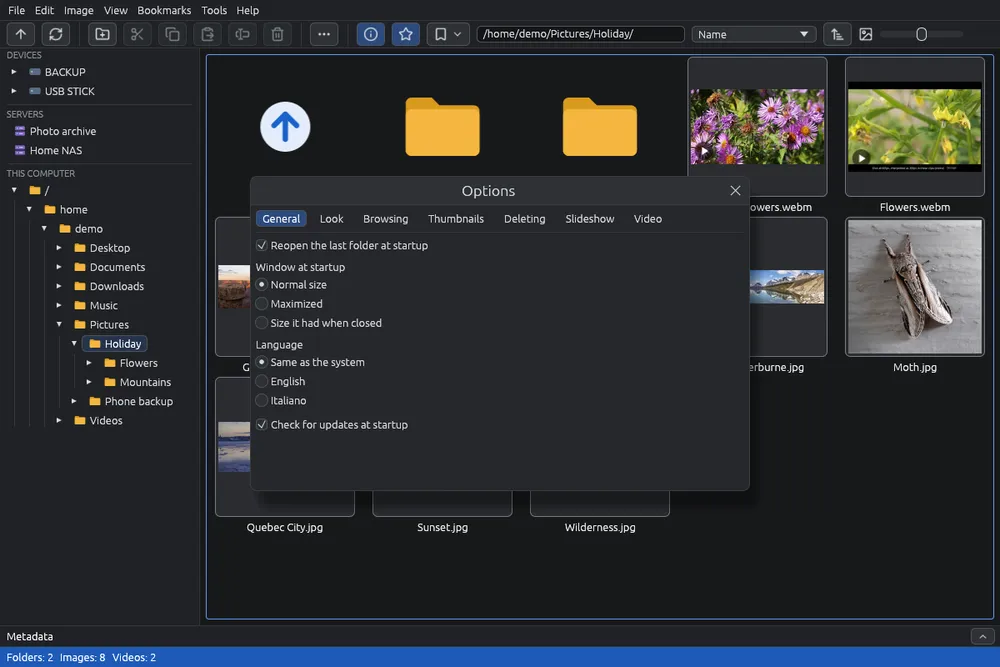
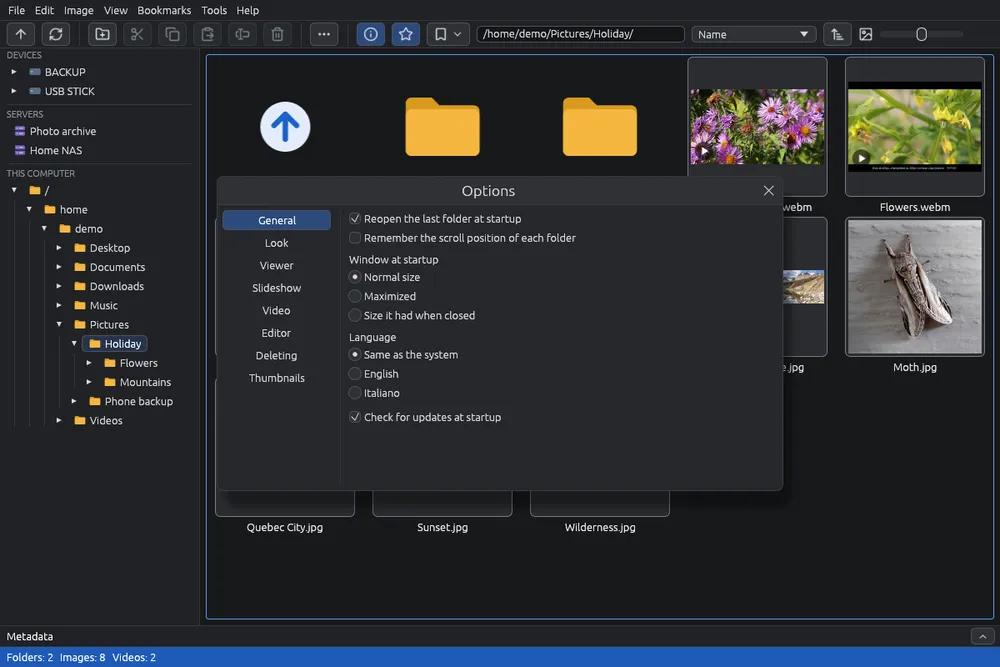
Options: tabs in a column, ordered as a visit; Browsing becomes Viewer
Nine tabs did not fit in a row in every language. Now they stand in a
column on the left, General first and the thumbnail cache (upkeep) last,
the others in the order of a visit: Look, Viewer, Slideshow, Video,
Editor, Resize, Deleting (Microsoft's guidelines for options windows:
General first, related pages grouped and ordered by use, vertical tabs
from eight). "Browsing" held mostly viewer settings and is now "Viewer";
"Remember the scroll position of each folder", about the grid, moves to
General. The window is 720 wide, for the rows of Resize beside the
column. Guide: Options, en and it, with its picture taken again.

diff --git a/src/app_dialogs.rs b/src/app_dialogs.rs
@@ -13,17 +13,18 @@ impl App {
         let mut open = self.options;
         let before = self.settings.clone();
         let t = |id| self.i18n.t(id);
+        // General first, upkeep (the thumbnail cache) last; between them the order of a visit:
+        // look, watch, edit, delete (Microsoft's guidelines for options windows).
         let tab_names = [
             (OptTab::General, t("opt-tab-general")),
             (OptTab::Look, t("opt-tab-look")),
-            (OptTab::Browsing, t("opt-tab-browsing")),
-            // Next to Browsing: both are about the grid.
-            (OptTab::Thumbnails, t("opt-tab-thumbnails")),
-            (OptTab::Deleting, t("opt-tab-deleting")),
+            (OptTab::Viewer, t("opt-tab-viewer")),
             (OptTab::Slideshow, t("opt-tab-slideshow")),
             (OptTab::Video, t("opt-tab-video")),
             (OptTab::Editor, t("opt-tab-editor")),
             (OptTab::Resize, t("opt-tab-resize")),
+            (OptTab::Deleting, t("opt-tab-deleting")),
+            (OptTab::Thumbnails, t("opt-tab-thumbnails")),
         ];
         let mut purged = false;
         let (i18n, languages) = (&self.i18n, &self.languages);
@@ -31,37 +32,41 @@ impl App {
         let confirm = &mut self.purge_confirm;
         let s = &mut self.settings;
         // Fixed id: changing language changes the title, and the window must not move.
-        // One tab per subject, as in other programs: the window stays short. Fixed size and in the
-        // middle, so changing tab does not make it jump.
+        // One tab per subject, in a column on the left (eight or more tabs do not fit in a row in
+        // every language). Fixed size and in the middle, so changing tab does not make it jump.
         egui::Window::new(i18n.t("options-title"))
             .id(egui::Id::unique("options"))
             .open(&mut open)
             .collapsible(false)
             .resizable(false)
-            // Wide enough for the nine tabs in every language (Italian is the longest: 600 let
-            // Editor push the body past the title bar, 2026-11-11; 640 for eight).
-            .fixed_size([740.0, 330.0])
+            // Wide enough for the rows of Resize (name, kind, two sizes) beside the column of tabs.
+            .fixed_size([720.0, 330.0])
             .anchor(egui::Align2::CENTER_CENTER, [0.0, 0.0])
             .show(ctx, |ui| {
                 // As tall as the longest tab (General), so changing tab does not resize the window.
                 ui.set_min_height(330.0);
-                ui.horizontal(|ui| {
-                    for (value, name) in tab_names {
-                        ui.selectable_value(tab, value, name);
-                    }
+                ui.horizontal_top(|ui| {
+                    ui.vertical(|ui| {
+                        ui.set_width(130.0);
+                        for (value, name) in tab_names {
+                            if ui.add_sized([130.0, 24.0], egui::Button::selectable(*tab == value, name)).clicked() {
+                                *tab = value;
+                            }
+                        }
+                    });
+                    ui.separator();
+                    ui.vertical(|ui| match tab {
+                        OptTab::Slideshow => crate::slideshow::options_ui(ui, s, i18n),
+                        OptTab::Video => crate::engine::options_ui(ui, s, i18n),
+                        OptTab::General => general_tab(ui, s, i18n, languages),
+                        OptTab::Look => look_tab(ui, s, i18n),
+                        OptTab::Viewer => viewer_tab(ui, s, i18n),
+                        OptTab::Deleting => deleting_tab(ui, s, i18n),
+                        OptTab::Thumbnails => purged = thumbnails_tab(ui, s, i18n, confirm),
+                        OptTab::Editor => editor_tab(ui, s, i18n),
+                        OptTab::Resize => crate::presets::options_ui(ui, s, i18n),
+                    });
                 });
-                ui.separator();
-                match tab {
-                    OptTab::Slideshow => crate::slideshow::options_ui(ui, s, i18n),
-                    OptTab::Video => crate::engine::options_ui(ui, s, i18n),
-                    OptTab::General => general_tab(ui, s, i18n, languages),
-                    OptTab::Look => look_tab(ui, s, i18n),
-                    OptTab::Browsing => browsing_tab(ui, s, i18n),
-                    OptTab::Deleting => deleting_tab(ui, s, i18n),
-                    OptTab::Thumbnails => purged = thumbnails_tab(ui, s, i18n, confirm),
-                    OptTab::Editor => editor_tab(ui, s, i18n),
-                    OptTab::Resize => crate::presets::options_ui(ui, s, i18n),
-                }
             });
         if !open {
             self.purge_confirm = None;
@@ -220,6 +225,7 @@ impl App {
 fn general_tab(ui: &mut egui::Ui, s: &mut Settings, i18n: &I18n, languages: &[(&'static str, String)]) {
     let t = |id| i18n.t(id);
     ui.checkbox(&mut s.remember_location, t("opt-remember-location")).on_hover_text(t("opt-remember-location-hint"));
+    ui.checkbox(&mut s.remember_scroll, t("opt-remember-scroll")).on_hover_text(t("opt-remember-scroll-hint"));
     ui.add_space(6.0);
     ui.label(t("opt-window"));
     ui.radio_value(&mut s.window_start, WindowStart::Normal, t("opt-window-normal"));
@@ -247,9 +253,8 @@ fn look_tab(ui: &mut egui::Ui, s: &mut Settings, i18n: &I18n) {
     ui.radio_value(&mut s.theme, ThemeChoice::Dark, t("opt-theme-dark"));
 }
 
-fn browsing_tab(ui: &mut egui::Ui, s: &mut Settings, i18n: &I18n) {
+fn viewer_tab(ui: &mut egui::Ui, s: &mut Settings, i18n: &I18n) {
     let t = |id| i18n.t(id);
-    ui.checkbox(&mut s.remember_scroll, t("opt-remember-scroll")).on_hover_text(t("opt-remember-scroll-hint"));
     ui.checkbox(&mut s.wrap_around, t("opt-wrap-around")).on_hover_text(t("opt-wrap-around-hint"));
     ui.checkbox(&mut s.close_to_grid, t("opt-close-to-grid")).on_hover_text(t("opt-close-to-grid-hint"));
     ui.add_space(6.0);

diff --git a/src/main.rs b/src/main.rs
@@ -197,13 +197,13 @@ enum OptTab {
     #[default]
     General,
     Look,
-    Browsing,
-    Thumbnails,
-    Deleting,
+    Viewer,
     Slideshow,
     Video,
     Editor,
     Resize,
+    Deleting,
+    Thumbnails,
 }
 
 /// Images kept in memory around the one open in the viewer, on each side.

diff --git a/docs/help/it/options.md b/docs/help/it/options.md
@@ -4,7 +4,7 @@ Le opzioni cambiano come EyeCanSee si avvia, il suo aspetto, come passa da un'im
 
 ## Aprire le opzioni
 
-Scegli **Strumenti > Opzioni…** (![Opzioni…](icon://settings)). La finestra è divisa in schede: **Generale**, **Aspetto**, **Navigazione**, **Miniature**, **Eliminazione**, **Carosello**, **Video**, **Editor** e **Ridimensiona**. Passando sopra molte opzioni compare una breve spiegazione.
+Scegli **Strumenti > Opzioni…** (![Opzioni…](icon://settings)). La finestra è divisa in schede: **Generale**, **Aspetto**, **Visore**, **Carosello**, **Video**, **Editor**, **Ridimensiona**, **Eliminazione** e **Miniature**, in colonna a sinistra. Passando sopra molte opzioni compare una breve spiegazione.
 
 Ogni modifica viene salvata subito in `settings.json`: in `~/.config/eyecansee` su Linux e in `%APPDATA%\eyecansee` su Windows. È un file di testo che puoi anche modificare a mano.
 
@@ -13,6 +13,7 @@ Ogni modifica viene salvata subito in `settings.json`: in `~/.config/eyecansee` 
 ## Generale
 
 - **Riapri l'ultima cartella all'avvio** (accesa): quando EyeCanSee parte senza una cartella, per esempio dal menù delle applicazioni, apre la cartella che stavi guardando alla chiusura. Se quella cartella non esiste più, o il suo disco o telefono non è collegato, apre la tua cartella home. Un server salvato si apre con la sua password salvata; un server FTP con utente che non è salvato apre **File > Apri indirizzo…** con tutto compilato tranne la password.
+- **Ricorda la posizione di scorrimento di ogni cartella** (spenta): tornando in una cartella già vista, la griglia riparte da dove l'avevi lasciata. Vale finché EyeCanSee resta aperto.
 - **Finestra all'avvio**: **Dimensione normale**, **Massimizzata** (riempie lo schermo lasciando visibili le barre del sistema) o **Dimensione che aveva alla chiusura** (se era massimizzata, si riapre massimizzata). Su Windows la finestra non massimizzata si apre al centro dell'area libera del suo schermo, sopra la barra delle applicazioni, e più piccola se non ci sta.
 - **Lingua**: **Come il sistema** (inglese se la lingua del sistema non c'è) o una delle lingue elencate, ognuna scritta nella sua lingua. La modifica vale subito, anche per questa guida.
 - **Controlla gli aggiornamenti all'avvio** (accesa): vedi [Aggiornamenti](updates.md). Non compare nel Flatpak e nel pacchetto Fedora, aggiornati dal sistema; nella copia del Microsoft Store chiede allo Store.
@@ -21,25 +22,12 @@ Ogni modifica viene salvata subito in `settings.json`: in `~/.config/eyecansee` 
 
 - **Colori**: **Come il sistema** (chiari o scuri come il sistema, e lo seguono quando cambia), **Chiari** o **Scuri**. La modifica vale subito.
 
-## Navigazione
+## Visore
 
-- **Ricorda la posizione di scorrimento di ogni cartella** (spenta): tornando in una cartella già vista, la griglia riparte da dove l'avevi lasciata. Vale finché EyeCanSee resta aperto.
 - **Nel visore, dopo l'ultima immagine ricomincia dalla prima** (spenta): e dalla prima immagine, tornando indietro, mostra l'ultima. Spenta, il visore si ferma alla prima e all'ultima immagine.
 - **Nel visore, la X della finestra torna alla griglia** (accesa): la X in alto a destra fa come Esc. Spenta, la X chiude EyeCanSee anche dal visore.
 - **Rotellina del mouse nel visore**: **Ingrandisce e rimpicciolisce** (predefinita) oppure **Mostra l'immagine successiva o precedente**. Tenendo premuto Ctrl, la rotellina ingrandisce sempre.
 - **Ingrandimento massimo nel visore** (2000% all'inizio): fin dove la rotellina e **+** possono ingrandire un'immagine.
-
-## Miniature
-
-- **Pulizia della cache miniature** (spenta): una volta per sessione, per ogni posto che apri, toglie le miniature delle immagini eliminate e rifà quelle delle immagini cambiate; poi toglie le miniature usate meno di recente finché la cache sta entro il **Limite della cache** (1024 MB all'inizio). Le cartelle che non si trovano o non si raggiungono vengono saltate, così un disco scollegato o un NAS spento non perdono le loro miniature.
-- **Svuota la cache miniature…**: elimina tutte le miniature salvate, dopo una conferma che dice quante sono e quanto spazio si libera. Le tue immagini non vengono toccate: le miniature della cartella aperta vengono rifatte subito, le altre quando apri la loro cartella.
-
-## Eliminazione
-
-- **Elimina i file del computer definitivamente, senza cestino (pericoloso)** (spenta): i file eliminati non si possono recuperare.
-- **Eliminare su telefoni e server (non hanno un cestino)**: **Sposta nella cartella nascosta .EyeCanSee-trash accanto all'immagine** (predefinita) oppure **Elimina definitivamente**.
-
-Vedi [Eliminare e cestino](delete.md).
 
 ## Carosello
 
@@ -71,3 +59,15 @@ Vedi [Salvare un'immagine modificata](editor-save.md).
 Le misure di **Ridimensiona**, nel menù del clic destro sulle miniature e in **Strumenti** (vedi [Convertire e ridimensionare le immagini](convert.md)). All'inizio **Piccola** (lato lungo 1280 px), **Media** (lato lungo 1920 px), **Grande** (lato lungo 2560 px) e **Metà** (50 %).
 
 Ogni riga è una misura: il suo **Nome** (può restare vuoto: il menù mostra allora solo la misura), il tipo (**Percentuale dell'originale**, **Entro**, **Lato lungo**, **Lato corto**, **Larghezza**, **Altezza**, **Misura esatta, tagliata al centro**, **Misura esatta, deformata**) e i pixel o la percentuale. ![Togli](icon://x) la toglie, **Aggiungi** ne aggiunge una, **Rimetti quelle di partenza** rimette le quattro misure iniziali. Finché non le cambi, i loro nomi seguono la lingua di EyeCanSee.
+
+## Eliminazione
+
+- **Elimina i file del computer definitivamente, senza cestino (pericoloso)** (spenta): i file eliminati non si possono recuperare.
+- **Eliminare su telefoni e server (non hanno un cestino)**: **Sposta nella cartella nascosta .EyeCanSee-trash accanto all'immagine** (predefinita) oppure **Elimina definitivamente**.
+
+Vedi [Eliminare e cestino](delete.md).
+
+## Miniature
+
+- **Pulizia della cache miniature** (spenta): una volta per sessione, per ogni posto che apri, toglie le miniature delle immagini eliminate e rifà quelle delle immagini cambiate; poi toglie le miniature usate meno di recente finché la cache sta entro il **Limite della cache** (1024 MB all'inizio). Le cartelle che non si trovano o non si raggiungono vengono saltate, così un disco scollegato o un NAS spento non perdono le loro miniature.
+- **Svuota la cache miniature…**: elimina tutte le miniature salvate, dopo una conferma che dice quante sono e quanto spazio si libera. Le tue immagini non vengono toccate: le miniature della cartella aperta vengono rifatte subito, le altre quando apri la loro cartella.

diff --git a/docs/help/en/options.md b/docs/help/en/options.md
@@ -4,7 +4,7 @@ The options change how EyeCanSee starts, looks, moves between images, deletes, s
 
 ## Opening the options
 
-Choose **Tools > Options…** (![Options…](icon://settings)). The window is divided into tabs: **General**, **Look**, **Browsing**, **Thumbnails**, **Deleting**, **Slideshow**, **Video**, **Editor** and **Resize**. Pointing at many options shows a short explanation.
+Choose **Tools > Options…** (![Options…](icon://settings)). The window is divided into tabs: **General**, **Look**, **Viewer**, **Slideshow**, **Video**, **Editor**, **Resize**, **Deleting** and **Thumbnails**, in a column on the left. Pointing at many options shows a short explanation.
 
 Every change is saved at once in `settings.json`: in `~/.config/eyecansee` on Linux and in `%APPDATA%\eyecansee` on Windows. It is a text file you can also edit by hand.
 
@@ -13,6 +13,7 @@ Every change is saved at once in `settings.json`: in `~/.config/eyecansee` on Li
 ## General
 
 - **Reopen the last folder at startup** (on): when EyeCanSee starts without a folder, for example from the applications menu, it opens the folder you were looking at when you closed it. If that folder no longer exists, or its disk or phone is not connected, it opens your home folder. A saved server opens with its saved password; an FTP server with a user that is not saved opens **File > Open location…** with everything filled in except the password.
+- **Remember the scroll position of each folder** (off): going back to a folder you already viewed, the grid starts where you left it. It lasts until EyeCanSee is closed.
 - **Window at startup**: **Normal size**, **Maximized** (fills the screen, leaving the system bars visible) or **Size it had when closed** (if it was maximized, it reopens maximized). On Windows a window that is not maximized opens centred in the free area of its screen, above the taskbar, and smaller if it would not fit.
 - **Language**: **Same as the system** (English if the system's language is not available) or one of the languages listed, each shown by its own name. The change applies at once, this guide included.
 - **Check for updates at startup** (on): see [Updates](updates.md). Not shown in the Flatpak and in the Fedora package, which the system updates; in the copy from the Microsoft Store it asks the Store.
@@ -21,25 +22,12 @@ Every change is saved at once in `settings.json`: in `~/.config/eyecansee` on Li
 
 - **Colors**: **Same as the system** (light or dark as the system, and it follows it when it changes), **Light** or **Dark**. The change applies at once.
 
-## Browsing
+## Viewer
 
-- **Remember the scroll position of each folder** (off): going back to a folder you already viewed, the grid starts where you left it. It lasts until EyeCanSee is closed.
 - **In the viewer, after the last image start again from the first** (off): and from the first image, going back shows the last one. When off, the viewer stops at the first and the last image.
 - **In the viewer, the window's ✕ goes back to the grid** (on): the ✕ at the top right does as Esc. When off, the ✕ closes EyeCanSee from the viewer too.
 - **Mouse wheel in the viewer**: **Zooms in and out** (the default) or **Shows the next or previous image**. Holding Ctrl, the wheel always zooms.
 - **Largest zoom in the viewer** (2000% at first): how far the wheel and **+** can enlarge an image.
-
-## Thumbnails
-
-- **Clean up the thumbnail cache** (off): once per session, for each location you open, removes the thumbnails of deleted images and makes again those of changed images; then removes the least recently used thumbnails until the cache is within **Cache limit** (1024 MB at first). Folders that cannot be found or reached are skipped, so a disconnected disk or a switched-off NAS keeps its thumbnails.
-- **Empty the thumbnail cache…**: deletes all the saved thumbnails, after a confirmation saying how many and how much space is freed. Your images are not touched: the thumbnails of the open folder are made again at once, the others when you open their folder.
-
-## Deleting
-
-- **Delete files on this computer for good, without the trash (dangerous)** (off): deleted files cannot be recovered.
-- **Deleting on phones and servers (they have no trash)**: **Move to the hidden .EyeCanSee-trash folder next to the image** (the default) or **Delete for good**.
-
-See [Deleting and the trash](delete.md).
 
 ## Slideshow
 
@@ -71,3 +59,15 @@ See [Saving an edited image](editor-save.md).
 The sizes of **Resize**, in the right-click menu of the thumbnails and in **Tools** (see [Converting and resizing images](convert.md)). At first **Small** (long side 1280 px), **Medium** (long side 1920 px), **Large** (long side 2560 px) and **Half** (50%).
 
 Each row is one size: its **Name** (it can stay empty: the menu then shows only the size), the kind (**Percent of the original**, **Inside**, **Long side**, **Short side**, **Width**, **Height**, **Exactly, cropped in the middle**, **Exactly, stretched**) and the pixels or the percent. ![Remove](icon://x) removes it, **Add** adds one, **Back to the first ones** puts back the four sizes you started with. Until you change them, their names follow the language of EyeCanSee.
+
+## Deleting
+
+- **Delete files on this computer for good, without the trash (dangerous)** (off): deleted files cannot be recovered.
+- **Deleting on phones and servers (they have no trash)**: **Move to the hidden .EyeCanSee-trash folder next to the image** (the default) or **Delete for good**.
+
+See [Deleting and the trash](delete.md).
+
+## Thumbnails
+
+- **Clean up the thumbnail cache** (off): once per session, for each location you open, removes the thumbnails of deleted images and makes again those of changed images; then removes the least recently used thumbnails until the cache is within **Cache limit** (1024 MB at first). Folders that cannot be found or reached are skipped, so a disconnected disk or a switched-off NAS keeps its thumbnails.
+- **Empty the thumbnail cache…**: deletes all the saved thumbnails, after a confirmation saying how many and how much space is freed. Your images are not touched: the thumbnails of the open folder are made again at once, the others when you open their folder.
